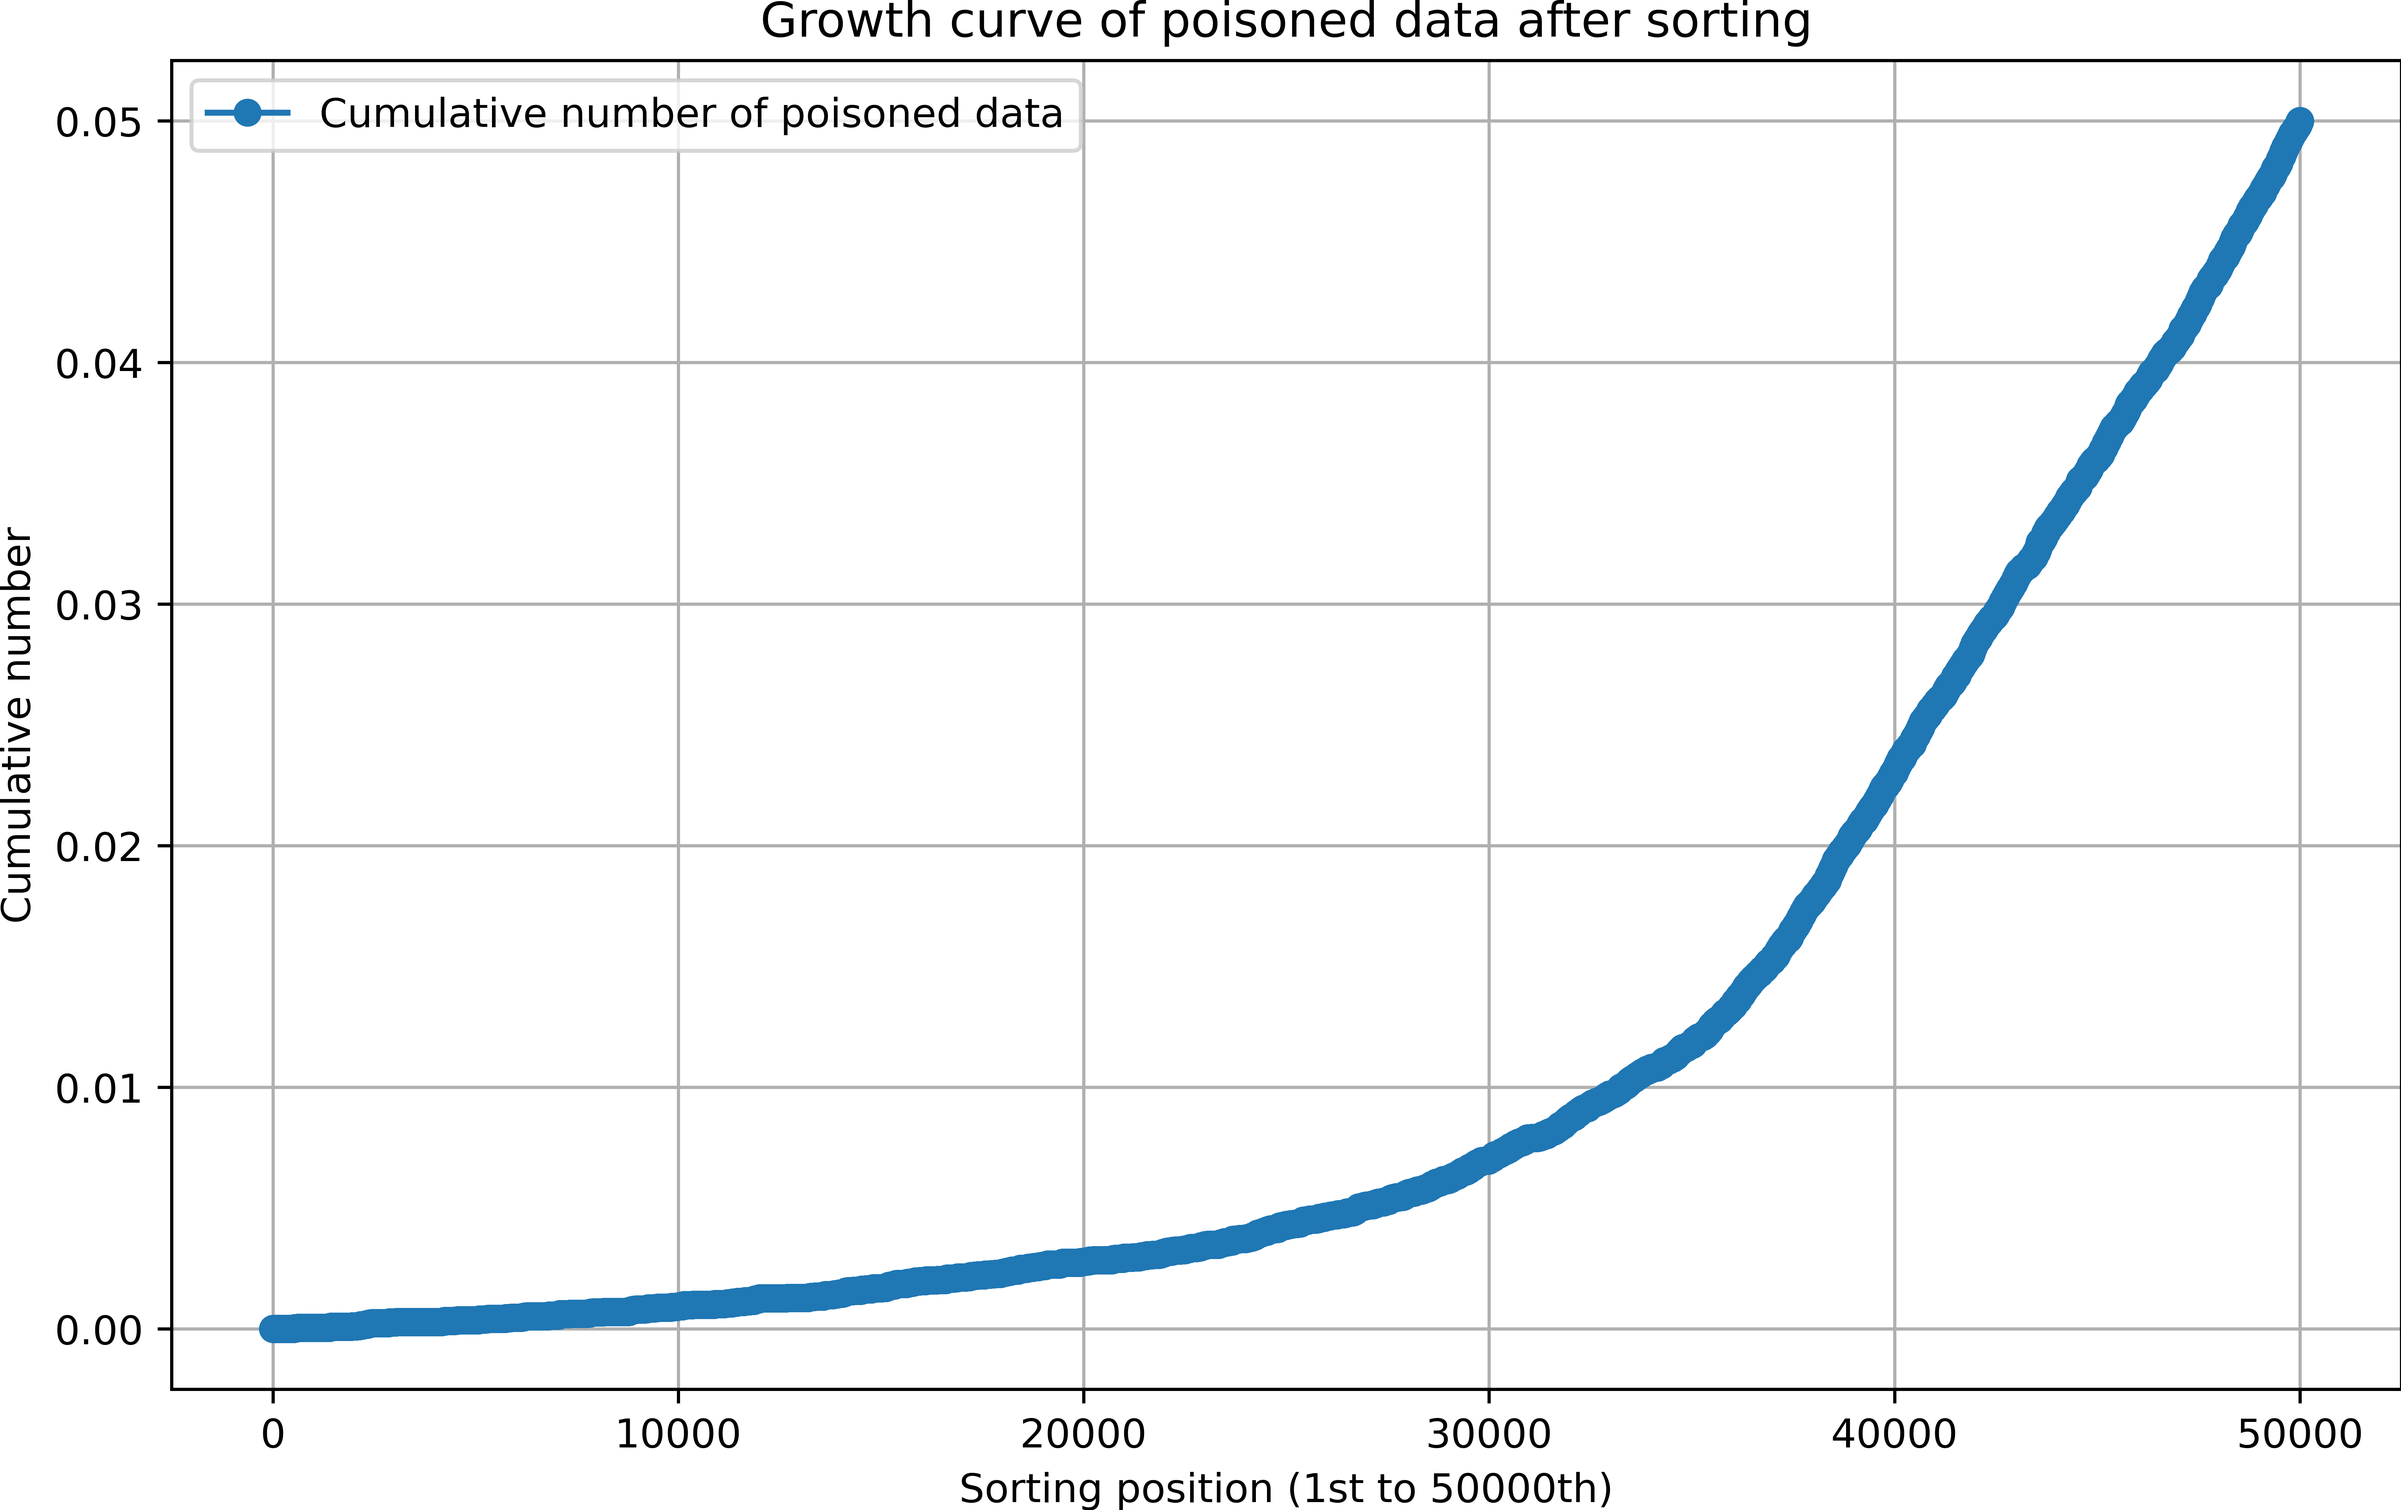
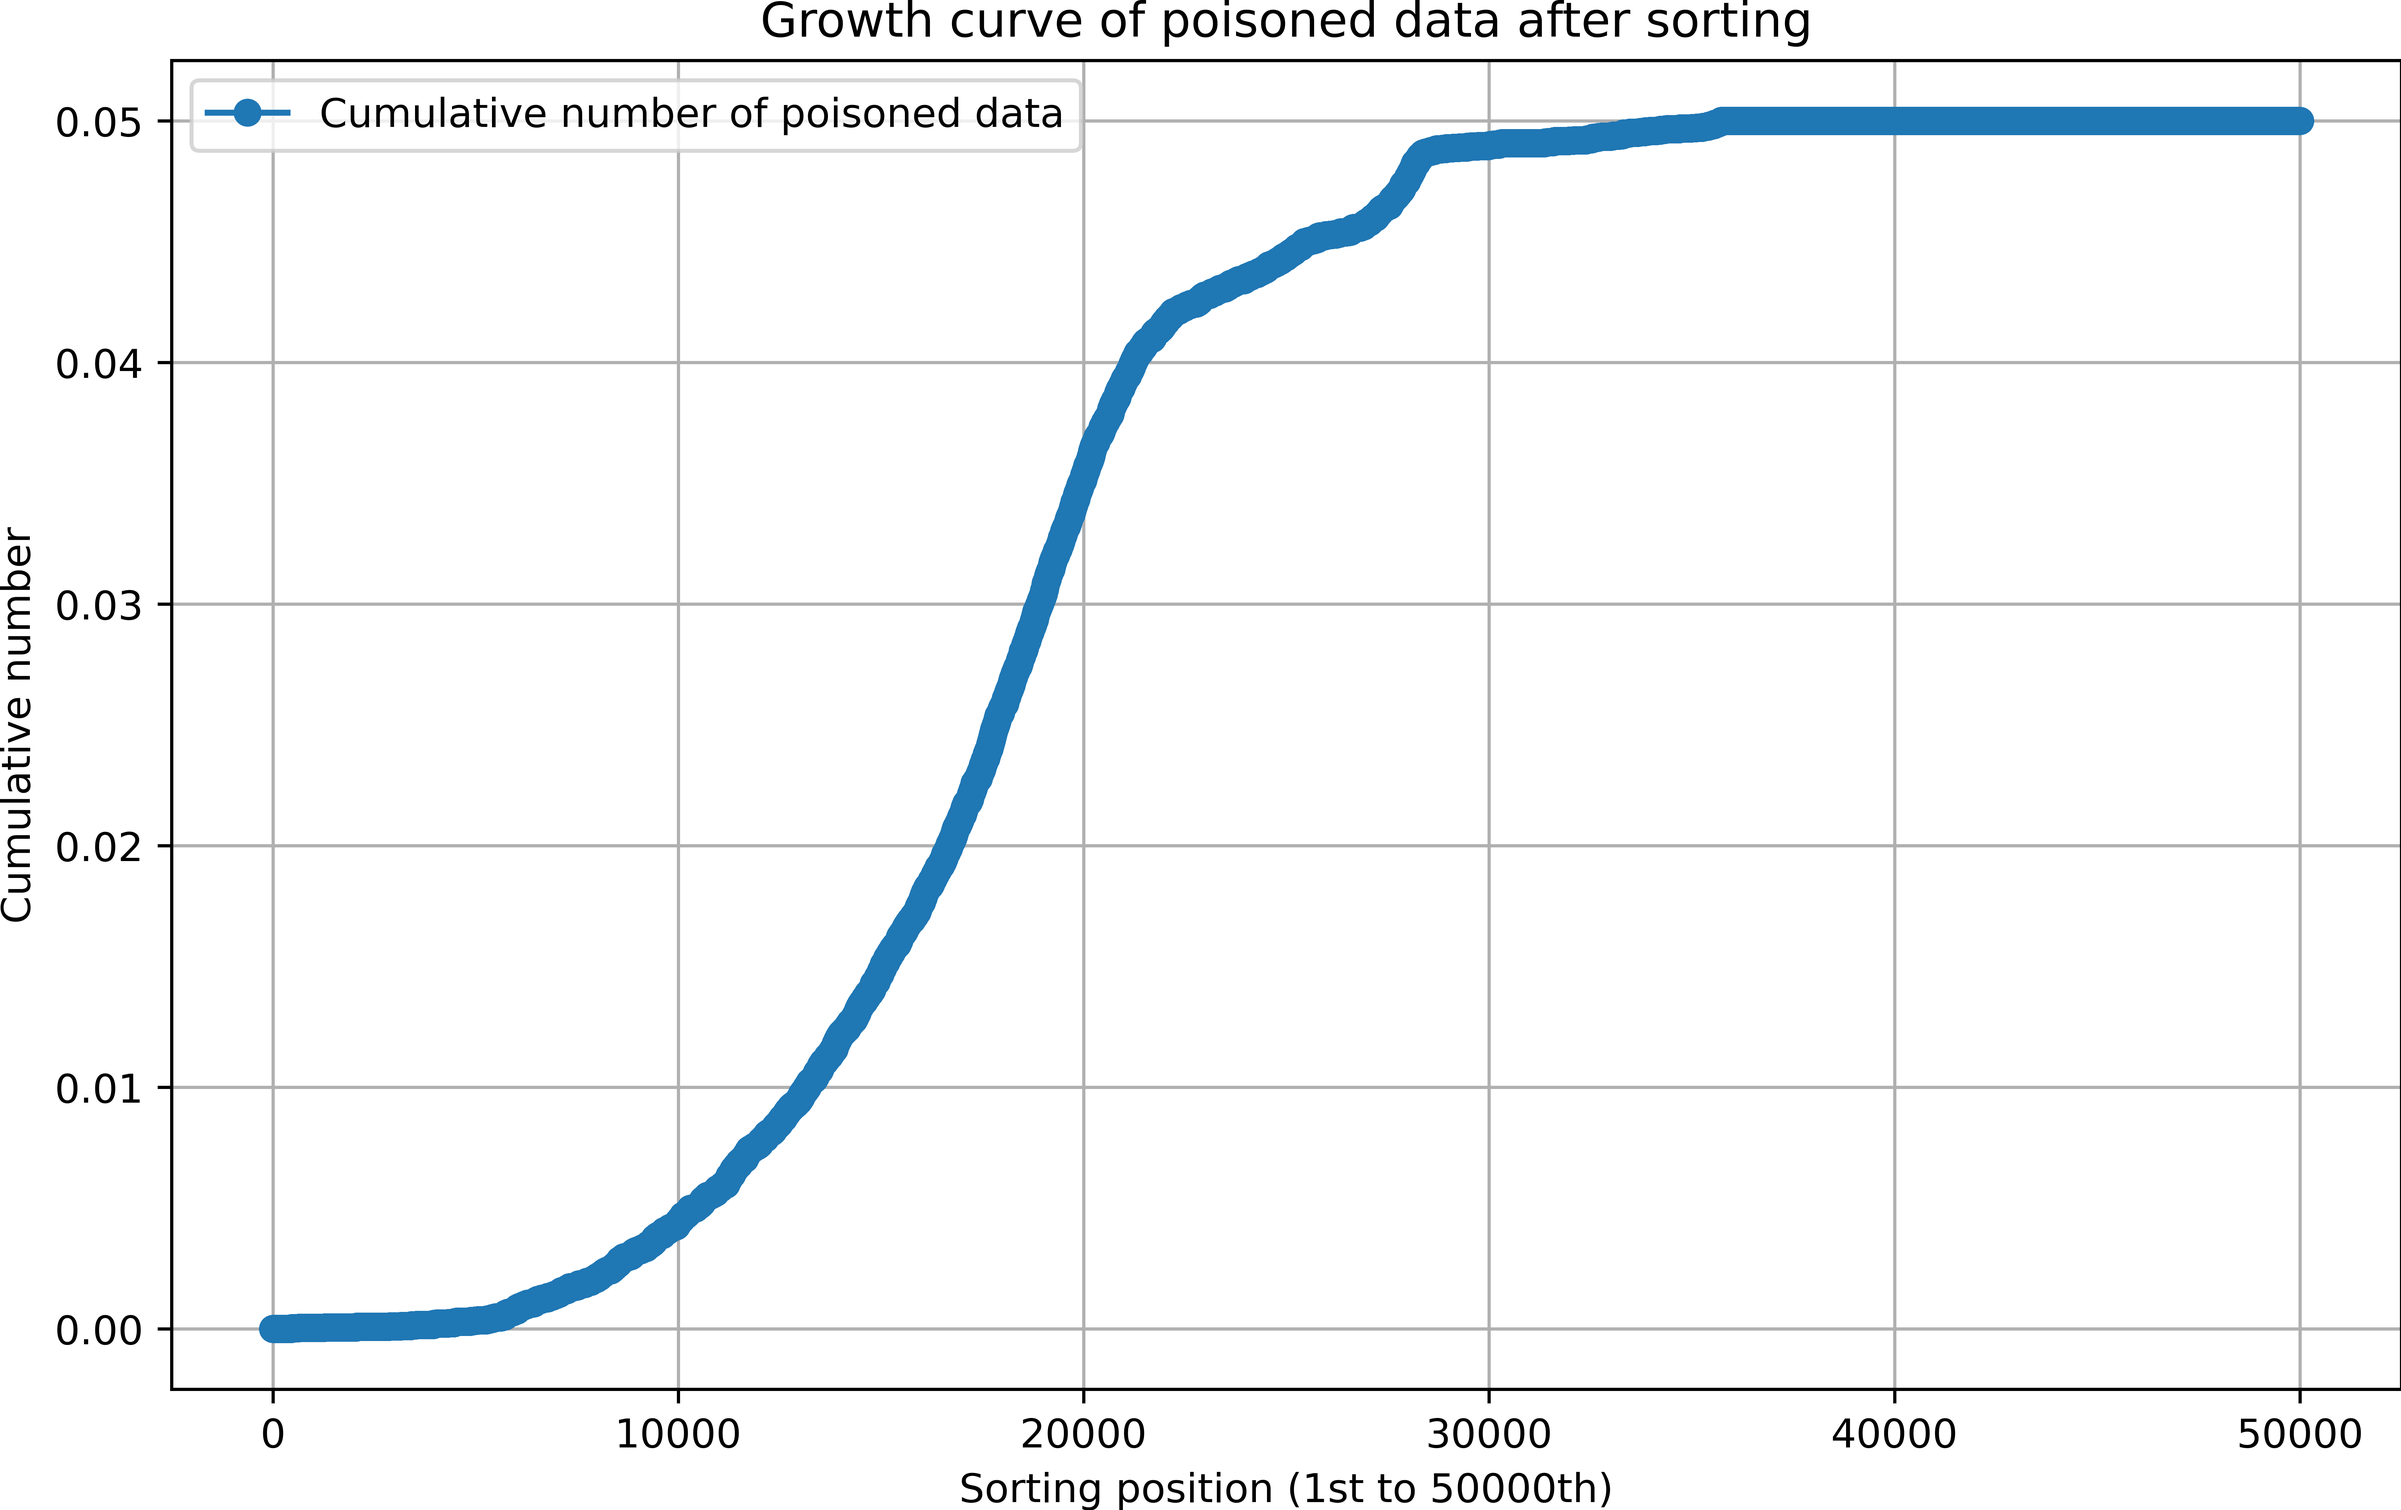
go

Changed region(s): [[0.2181, 0.0624, 0.9658, 0.9045], [0.2804, 0.6238, 0.3739, 0.811]]

diff --git a/codes/ourMethod/defence.py b/codes/ourMethod/defence.py
@@ -325,7 +325,7 @@ def defence_train(
             record_list = poison_linear_record(model, poisoned_eval_dataset_loader, split_criterion, device,dataset_name=kwargs["dataset_name"], model_name =kwargs["model_name"])
             print("Mining clean data by class-agnostic loss-guided split...")
             # 将trainset对半划分为clean pool和poisoned pool
-            split_indice = class_agnostic_loss_guided_split(record_list, 0.5, poisoned_ids, class_prob_map=None, classes_rank = classes_rank) # class_prob_map=class_prob_map
+            split_indice =  class_agnostic_loss_guided_split(record_list, 0.5, poisoned_ids, class_prob_map=None, classes_rank = classes_rank) # class_prob_map=class_prob_map
             xdata = MixMatchDataset(poisoned_train_dataset, split_indice, labeled=True)
             udata = MixMatchDataset(poisoned_train_dataset, split_indice, labeled=False)
         elif epoch < total_epoch: # epoch:[90,120]
@@ -391,7 +391,7 @@ def defence_train(
 
             # 开始干净样本的挖掘
             print("Mining clean data by meta-split...")
-            split_indice = meta_split(record_list, meta_record_list, 0.5, poisoned_ids, class_prob_map=class_prob_map)
+            split_indice = meta_split(record_list, meta_record_list, 0.5, poisoned_ids, class_prob_map=None, classes_rank = classes_rank)
 
             xdata = MixMatchDataset(poisoned_train_dataset, split_indice, labeled=True)
             udata = MixMatchDataset(poisoned_train_dataset, split_indice, labeled=False)  
@@ -579,7 +579,7 @@ def class_agnostic_loss_guided_split(record_list, ratio, poisoned_indice, class_
         )
     return clean_pool_flag
 
-def meta_split(record_list, meta_record_list, ratio, poisoned_indice, class_prob_map=None):
+def meta_split(record_list, meta_record_list, ratio, poisoned_indice, class_prob_map=None, classes_rank=None):
     """
     Adaptively split the poisoned dataset by meta-split.
     """
@@ -598,6 +598,12 @@ def meta_split(record_list, meta_record_list, ratio, poisoned_indice, class_prob
         # 计算采样数
         samples_num = int(len(ranked_sample_idx_array)*ratio)
         total_indice = sampling(samples_num,ranked_sample_idx_array,class_prob_map,gt_label_array)
+    elif classes_rank is not None:
+        # 按照loss值对样本idx进行排序，loss保持不变
+        ranked_sample_idx_array =  loss.argsort()
+        # 计算采样数
+        samples_num = int(len(ranked_sample_idx_array)*ratio)
+        total_indice = sampling_2(samples_num,ranked_sample_idx_array,classes_rank,gt_label_array)
     else:
         total_indice = loss.argsort()[: int(len(loss) * ratio)]
     poisoned_count = 0

diff --git a/codes/config.py b/codes/config.py
@@ -41,9 +41,9 @@ dataset_name = "CIFAR10" # CIFAR10, GTSRB, ImageNet2012_subset
 # 数据集分类任务数量
 class_num = 10 #  CIFAR-10:10,GTSRB:43,ImageNet2012_subset:30
 # 当前实验设置的模型名字
-model_name = "VGG19"
+model_name = "DenseNet"
 # 当前实验设置的攻击
-attack_name = "BadNets"
+attack_name = "WaNet"
 # GPU设备
 gpu_id = 1
 
